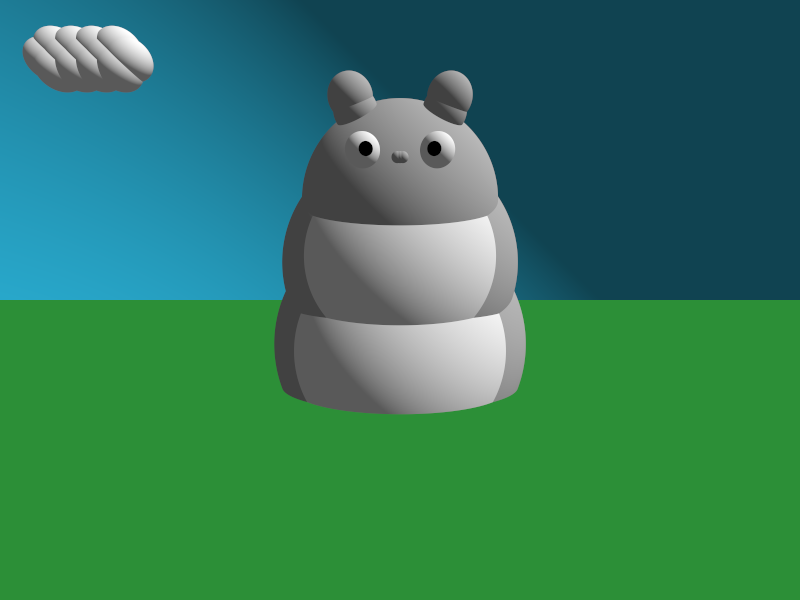
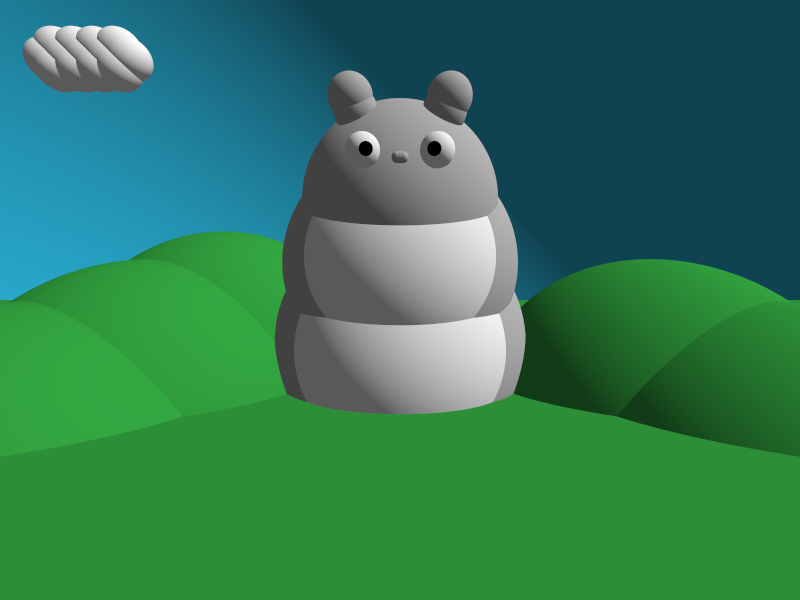
a04 final touches on 2nd scene

diff --git a/src/cgg/a04/Main.java b/src/cgg/a04/Main.java
@@ -58,6 +58,12 @@ public class Main {
         groupTotoro.addShape(new Sphere(Vector.point(-1.6, 1.25, -2), 0.1, Color.white));
         groupTotoro.addShape(new Sphere(Vector.point(-1.5, 1.25, -2), 0.1, Color.white));
         groupTotoro.addShape(new Sphere(Vector.point(-1.4, 1.25, -2), 0.1, Color.white));
+        // bushes
+        groupTotoro.addShape(new Sphere(Vector.point(-1.25, -0.5, -3), 1, Color.darkgreen));
+        groupTotoro.addShape(new Sphere(Vector.point(-1.5, -0.75, -2.5), 1, Color.darkgreen));
+        groupTotoro.addShape(new Sphere(Vector.point(-1.75, -1, -2), 1, Color.darkgreen));
+        groupTotoro.addShape(new Sphere(Vector.point(1.5, -0.75, -2.5), 1, Color.darkgreen));
+        groupTotoro.addShape(new Sphere(Vector.point(1.75, -1, -2), 1, Color.darkgreen));
 
         spheres.sample(new Raytracer(camera1, groupSpheres), 32);
         totoro.sample(new Raytracer(camera2, groupTotoro), 32);
